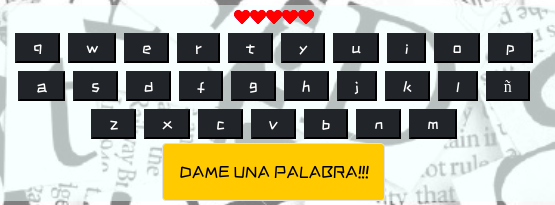
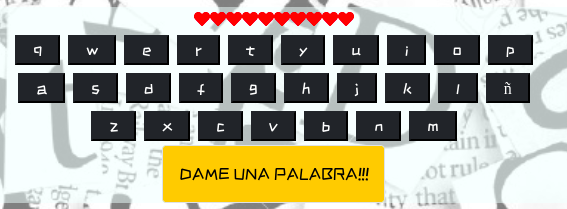
Juego Mayor Y Menor terminado. Preview en Home agregada

diff --git a/src/app/subModules/juegos/juegos.component.html b/src/app/subModules/juegos/juegos.component.html
@@ -1,39 +1,45 @@
 <div id="wrapper" class="text-center">
     <div class="container">
-        <div class="row">
+        <div class="row justify-content-between">
             <div class="col-12">
                 <h2 class="mt-4 mb-4">JUEGOS</h2>
             </div>
     
-            <div class="card-custom col-md-6 col-lg-4 rounded bg-light">
+            <div class="card-custom col-md-5 col-lg-3 rounded bg-light">
                 <a class="text-decoration-none" routerLink="ahorcado">
                 
                     <div class="card-box">
                         <h3><span href="#" class="mt-2 text-danger">AHORCADO</span></h3>
                         <div class="card-thumbnail">
-                            <img src="/assets/Ahorcado-preview.png" class="img-fluid" alt="">
+                            <img src="/assets/Ahorcado-preview.png" class="img-fluid" alt="AHORCADO">
                         </div>
-                        <p class="text-secondary">There are many variations of passages of Lorem Ipsum available, but the majority have suffered alteration in some form, by injected humour</p>
-                        <a href="#" class="btn btn-sm btn-danger float-right">Read more >></a>
+                        <p class="text-secondary">
+                            El ahorcado (también llamado colgado) es un juego de adivinanzas para dos o más jugadores. 
+                            Un jugador piensa en una palabra, frase u oración y el otro trata de adivinarla según lo que sugiere por letras o números.</p>
                     </div>
                     
                 </a>
             </div>
     
-            <!-- <div class="col-md-6 col-lg-4">
-                
-                <div class="card-box">
-                    <div class="card-thumbnail">
-                        <img src="images/office-image-two.jpg" class="img-fluid" alt="">
+            <div class="card-custom col-md-5 col-lg-3 rounded bg-light">
+                <a class="text-decoration-none" routerLink="mayor-menor">
+                    
+                    <div class="card-box">
+                        <h3><span href="#" class="mt-2 text-danger">MAYOR Y MENOR</span></h3>
+                        <div class="card-thumbnail">
+                            <img src="/assets/MayorYMenor-preview.png" class="img-fluid" alt="MAYOR Y MENOR">
+                        </div>
+                        <p class="text-secondary">
+                            Juego que compara una carta con su siguiente en un mazo.
+                            Para ello, hay que seleccionar el operador matemático de comparación, mayor o menor, para señalar si la siguiente será más alta.
+                        </p>
                     </div>
-                    <h3><a href="#" class="mt-2 text-danger">Why do we use it?</a></h3>
-                    <p class="text-secondary">There are many variations of passages of Lorem Ipsum available, but the majority have suffered alteration in some form, by injected humour</p>
-                    <a href="#" class="btn btn-sm btn-danger float-right">Read more >></a>
-                </div>
 
+                </a>
             </div>
-    
-            <div class="col-md-6 col-lg-4">
+
+            <!-- 
+            <div class="col-md-5 col-lg-3">
                 
                 <div class="card-box">
                     <div class="card-thumbnail">
@@ -45,8 +51,7 @@
                 </div>
 
             </div>
-    
-            <div class="col-md-6 col-lg-4">
+               <div class="col-md-6 col-lg-4">
                 
                 <div class="card-box">
                     <div class="card-thumbnail">

diff --git a/src/app/subModules/components/mayor-ymenor/mayor-ymenor.component.html b/src/app/subModules/components/mayor-ymenor/mayor-ymenor.component.html
@@ -1,0 +1,31 @@
+<div class="wrapper">
+    <div id="puntos-wrapper" class="text-center mx-auto bg-dark px-4">
+        <span class="align-start text-success" >Puntos: {{puntos}}</span>
+    </div>
+    
+    <div id="mazo-wrapper" class="my-3">
+        <div class="mazo mx-auto">{{actual}}</div>
+    </div>
+
+    <div class="text-center mx-auto bg-dark px-4">
+        <span class="align-start text-success">Actual</span>
+        <button 
+            (click)="elige(false)" 
+            class="custom-btn btn mx-2" 
+            data-bs-toggle="tooltip" 
+            data-bs-placement="top" 
+            title="MAYOR">
+            <i class="i align-middle h1 text-success fas fa-angle-left"></i>
+        </button>
+        <span class="align-start text-success">Siguiente</span>
+        <button 
+            (click)="elige(true)" 
+            class="custom-btn btn mx-2" 
+            data-bs-toggle="tooltip"
+            data-bs-placement="top" 
+            title="MENOR">
+            <i class="i align-middle h1 text-success fas fa-angle-right"></i>
+        </button>
+        <span class="align-start text-success">Actual</span>
+    </div>
+</div>

diff --git a/src/app/subModules/components/ahorcado/ahorcado.component.ts b/src/app/subModules/components/ahorcado/ahorcado.component.ts
@@ -2,12 +2,17 @@ import { Component, OnInit } from '@angular/core';
 import { TecladoService } from '../../services/teclado.service';
 import { VidaService } from '../../services/vida.service';
 
+/*
+  Ahorcado
+  No se debe ingresar datos desde el teclado. Utilizar botones para el ingreso de las letras.
+*/
 @Component({
   selector: 'app-ahorcado',
   templateUrl: './ahorcado.component.html',
   styleUrls: ['./ahorcado.component.css']
 })
 export class AhorcadoComponent implements OnInit {
+  readonly maxVidas : number = 10;
 
   palabras : string[] = [
     "hola", "piedra", "zapato", "auto", "documento", "manivela", "desnivel", "redondel", "alcaucil", "noviembre", "desastre",
@@ -15,7 +20,7 @@ export class AhorcadoComponent implements OnInit {
   ];
   palabra : string = "";
   descubierto : string = "";
-  vidas : number = 5;
+  vidas : number = this.maxVidas;
   resultado : string = "";
   perdio : boolean = false;
 
@@ -127,7 +132,7 @@ export class AhorcadoComponent implements OnInit {
   }
 
   private reiniciarVidas() {
-    this.vidas = 5;
+    this.vidas = this.maxVidas;
     this.vidaService.setteoVida.emit( this.vidas );
   }
 

diff --git a/src/app/subModules/components/mayor-ymenor/mayor-ymenor.component.ts b/src/app/subModules/components/mayor-ymenor/mayor-ymenor.component.ts
@@ -1,0 +1,42 @@
+import { Component, OnInit } from '@angular/core';
+
+/*
+Mayor o Menor
+Desde un mazo de carta se va a preguntar si la siguiente es mayor o menor. El jugador sumará un punto ante cada carta que adivine.
+*/
+
+@Component({
+  selector: 'app-mayor-ymenor',
+  templateUrl: './mayor-ymenor.component.html',
+  styleUrls: ['./mayor-ymenor.component.css']
+})
+export class MayorYmenorComponent implements OnInit {
+  
+  readonly maxVidas : number = 10;
+
+  actual? : number = 5;
+  siguiente? : number;
+  puntos : number = 0;
+
+  constructor() { }
+
+  ngOnInit(): void {
+  }
+
+  elige( menor : boolean ) {
+    this.generarSiguiente();
+
+    if ( this.siguiente == undefined || this.actual == undefined ) return;
+
+    this.puntos += menor ? (this.siguiente < this.actual ? 1 : -1) : (this.siguiente > this.actual ? 1 : -1);
+    
+    this.actual = this.siguiente;
+  }
+
+  private generarSiguiente() {
+    do {
+      this.siguiente = Math.floor( Math.random() * 12 );
+    } while( this.siguiente === this.actual );
+  }
+
+}

diff --git a/src/app/subModules/juegos/juegos.module.ts b/src/app/subModules/juegos/juegos.module.ts
@@ -6,6 +6,7 @@ import { AhorcadoComponent } from '../components/ahorcado/ahorcado.component';
 import { LetrasComponent } from '../components/letras/letras.component';
 import { BarraDeVidaComponent } from '../components/barra-de-vida/barra-de-vida.component';
 import { JuegoNotFoundComponent } from '../components/juego-not-found/juego-not-found.component';
+import { MayorYmenorComponent } from '../components/mayor-ymenor/mayor-ymenor.component';
 
 
 @NgModule({
@@ -14,7 +15,8 @@ import { JuegoNotFoundComponent } from '../components/juego-not-found/juego-not-
     AhorcadoComponent,
     LetrasComponent,
     BarraDeVidaComponent,
-    JuegoNotFoundComponent
+    JuegoNotFoundComponent,
+    MayorYmenorComponent
   ],
   imports: [
     CommonModule,

diff --git a/src/app/subModules/components/mayor-ymenor/mayor-ymenor.component.spec.ts b/src/app/subModules/components/mayor-ymenor/mayor-ymenor.component.spec.ts
@@ -1,0 +1,25 @@
+import { ComponentFixture, TestBed } from '@angular/core/testing';
+
+import { MayorYmenorComponent } from './mayor-ymenor.component';
+
+describe('MayorYmenorComponent', () => {
+  let component: MayorYmenorComponent;
+  let fixture: ComponentFixture<MayorYmenorComponent>;
+
+  beforeEach(async () => {
+    await TestBed.configureTestingModule({
+      declarations: [ MayorYmenorComponent ]
+    })
+    .compileComponents();
+  });
+
+  beforeEach(() => {
+    fixture = TestBed.createComponent(MayorYmenorComponent);
+    component = fixture.componentInstance;
+    fixture.detectChanges();
+  });
+
+  it('should create', () => {
+    expect(component).toBeTruthy();
+  });
+});

diff --git a/src/app/subModules/juegos/juegos-routing.module.ts b/src/app/subModules/juegos/juegos-routing.module.ts
@@ -1,11 +1,13 @@
 import { NgModule } from '@angular/core';
 import { RouterModule, Routes } from '@angular/router';
 import { AhorcadoComponent } from '../components/ahorcado/ahorcado.component';
+import { MayorYmenorComponent } from '../components/mayor-ymenor/mayor-ymenor.component';
 import { JuegosComponent } from './juegos.component';
 
 const routes: Routes = [
   { path:'', component: JuegosComponent },
-  { path: 'ahorcado', component: AhorcadoComponent }
+  { path: 'ahorcado', component: AhorcadoComponent },
+  { path: 'mayor-menor', component: MayorYmenorComponent }
 ];
 
 @NgModule({

diff --git a/src/app/components/navigation/navigation.component.html b/src/app/components/navigation/navigation.component.html
@@ -9,7 +9,6 @@
       <a [hidden]="usuario != undefined" class="nav-link rounded border border-black" routerLink="sign-up">Crear cuenta</a>
       <a class="nav-link rounded border border-black" routerLink="who-am-i">Quién soy</a>
       <a [hidden]="usuario === undefined" class="nav-link rounded border border-black" routerLink="chat">Chat</a>
-      <a routerLink="juegos">Juegos</a>
       <button [hidden]="usuario === undefined" (click)="onLogOut()" class="btn btn-lg btn-danger" > <i class="fas fa-sign-out-alt"></i> Log Out</button>
     </nav>
 </header>

diff --git a/src/app/app.component.css b/src/app/app.component.css
@@ -1,3 +1,9 @@
+body,
+html {
+    width: 100%;
+    height: 100%;
+}
+
 .main-wrapper {
     display: flex;
     align-items: center;
@@ -14,7 +20,7 @@
 
 .main-wrapper::before {
     content: '';
-    z-index: -1;
+    z-index: -100;
 
     background-image: url('./Letras.jpg');
     background-repeat: no-repeat;

diff --git a/src/app/subModules/components/mayor-ymenor/mayor-ymenor.component.css b/src/app/subModules/components/mayor-ymenor/mayor-ymenor.component.css
@@ -1,0 +1,14 @@
+.custom-btn:hover {
+    background-color: aliceblue;
+}
+
+.mazo {
+    display: flex;
+    justify-content: center;
+    align-items: center;
+    width: 5rem;
+    height: 5rem;
+    outline: 3px solid black;
+    background-color: aliceblue;
+    font-size: 2rem;
+}
